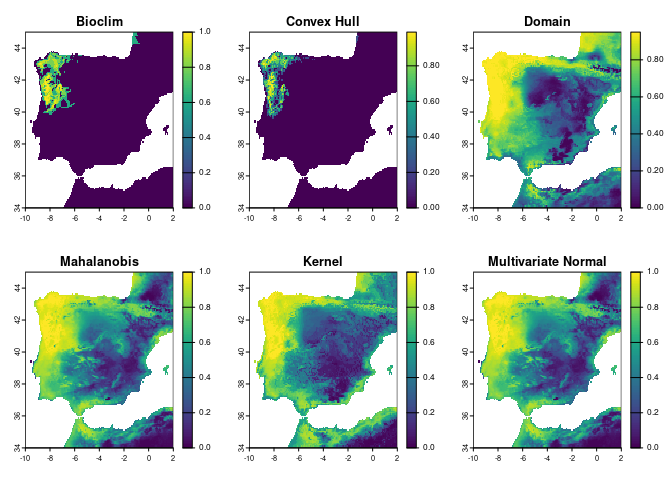
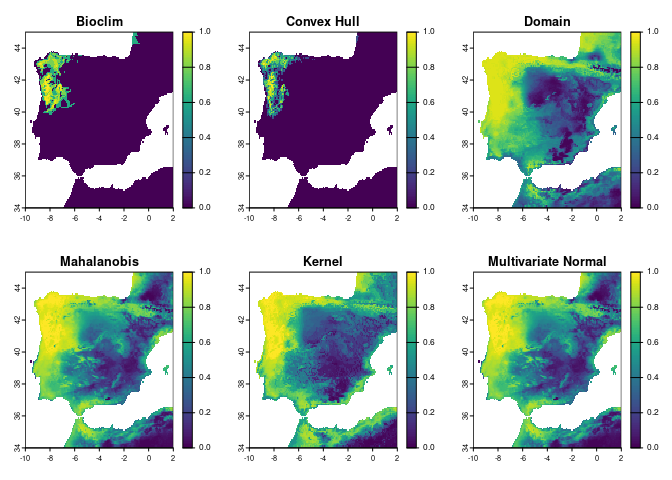
add ensemble

diff --git a/README.md b/README.md
@@ -39,13 +39,14 @@ terra::plot(vars)
 
 chilus <- read.csv("GIS/chilus.csv", sep=";")
 vals <- terra::extract(vars, chilus, ID=FALSE)
-terra::plot(vars[[1]] * 0, col = "grey", legend = FALSE, main = "Presences")
+terra::plot(vars[[1]] * 0, col = "tan", background = "lightblue", 
+            legend = FALSE, main = "Presences")
 points(chilus, pch = 20, cex = 0.2)
 ```
 
 <img src="man/figures/README-usage-2.png" width="100%" />
 
-### Compute model predictions
+### Get model predictions
 
 ``` r
 bc <- promodel(vals, vars, method = "bioclim")
@@ -77,15 +78,28 @@ km_rcl <- quantReclass(km[[1]])
 mv_rcl <- quantReclass(mv[[1]])
 
 par(mfrow = c(2, 3))
-terra::plot(bc_rcl, type = "continuous", main="Bioclim")
-terra::plot(ch_rcl, type = "continuous", main="Convex Hull")
-terra::plot(dm_rcl, type = "continuous", main="Domain")
-terra::plot(mm_rcl, type = "continuous", main="Mahalanobis")
-terra::plot(km_rcl, type = "continuous", main="Kernel")
-terra::plot(mv_rcl, type = "continuous", main="Multivariate Normal")
+terra::plot(bc_rcl, range = c(0, 1), type = "continuous", main="Bioclim")
+terra::plot(ch_rcl, range = c(0, 1), type = "continuous", main="Convex Hull")
+terra::plot(dm_rcl, range = c(0, 1), type = "continuous", main="Domain")
+terra::plot(mm_rcl, range = c(0, 1), type = "continuous", main="Mahalanobis")
+terra::plot(km_rcl, range = c(0, 1), type = "continuous", main="Kernel")
+terra::plot(mv_rcl, range = c(0, 1), type = "continuous", main="Multivariate Normal")
 ```
 
 <img src="man/figures/README-reclass-1.png" width="100%" />
+
+### Ensemble predictions
+
+``` r
+preds <- c(bc_rcl, ch_rcl, dm_rcl, mm_rcl, km_rcl, mv_rcl)
+ens_mean <- terra::app(preds, "mean")
+ens_var <- terra::app(preds, "var")
+par(mfrow = c(1, 2))
+terra::plot(ens_mean, range = c(0, 1), main = "Ensemble mean")
+terra::plot(ens_var, range = c(0, 1), main = "Ensemble variance")
+```
+
+<img src="man/figures/README-ensemble-1.png" width="100%" />
 
 ## TO DO
 
